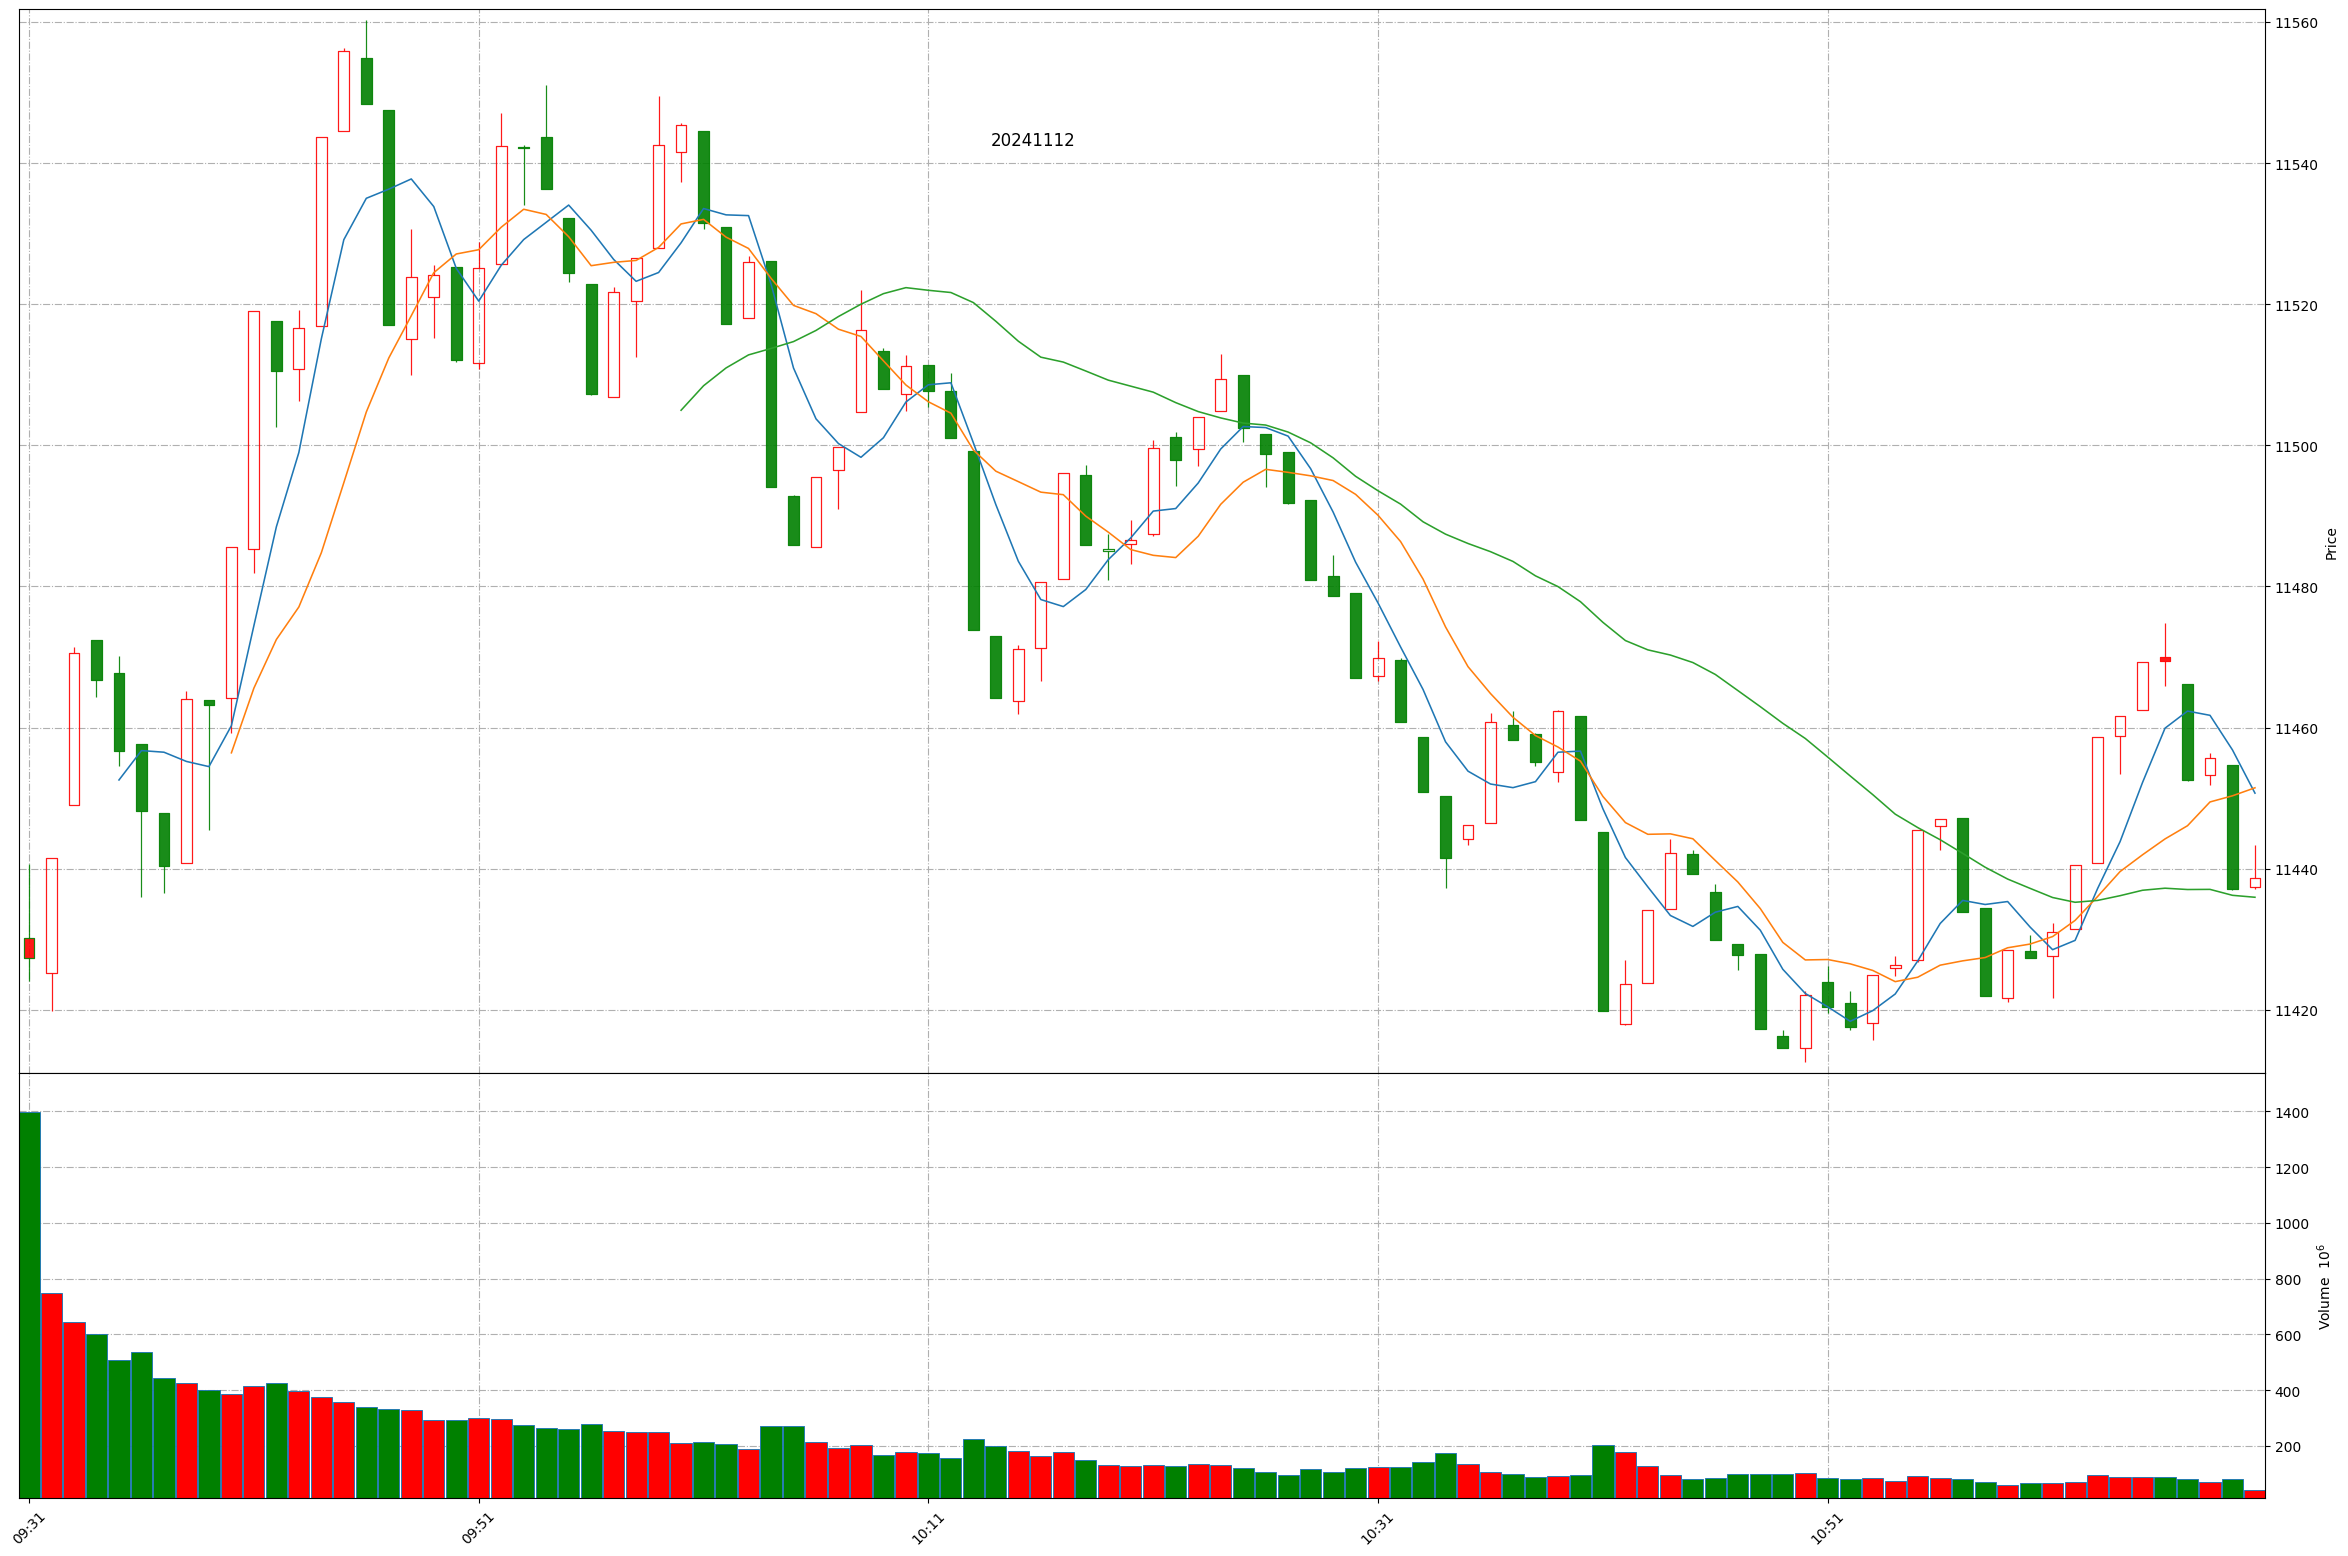
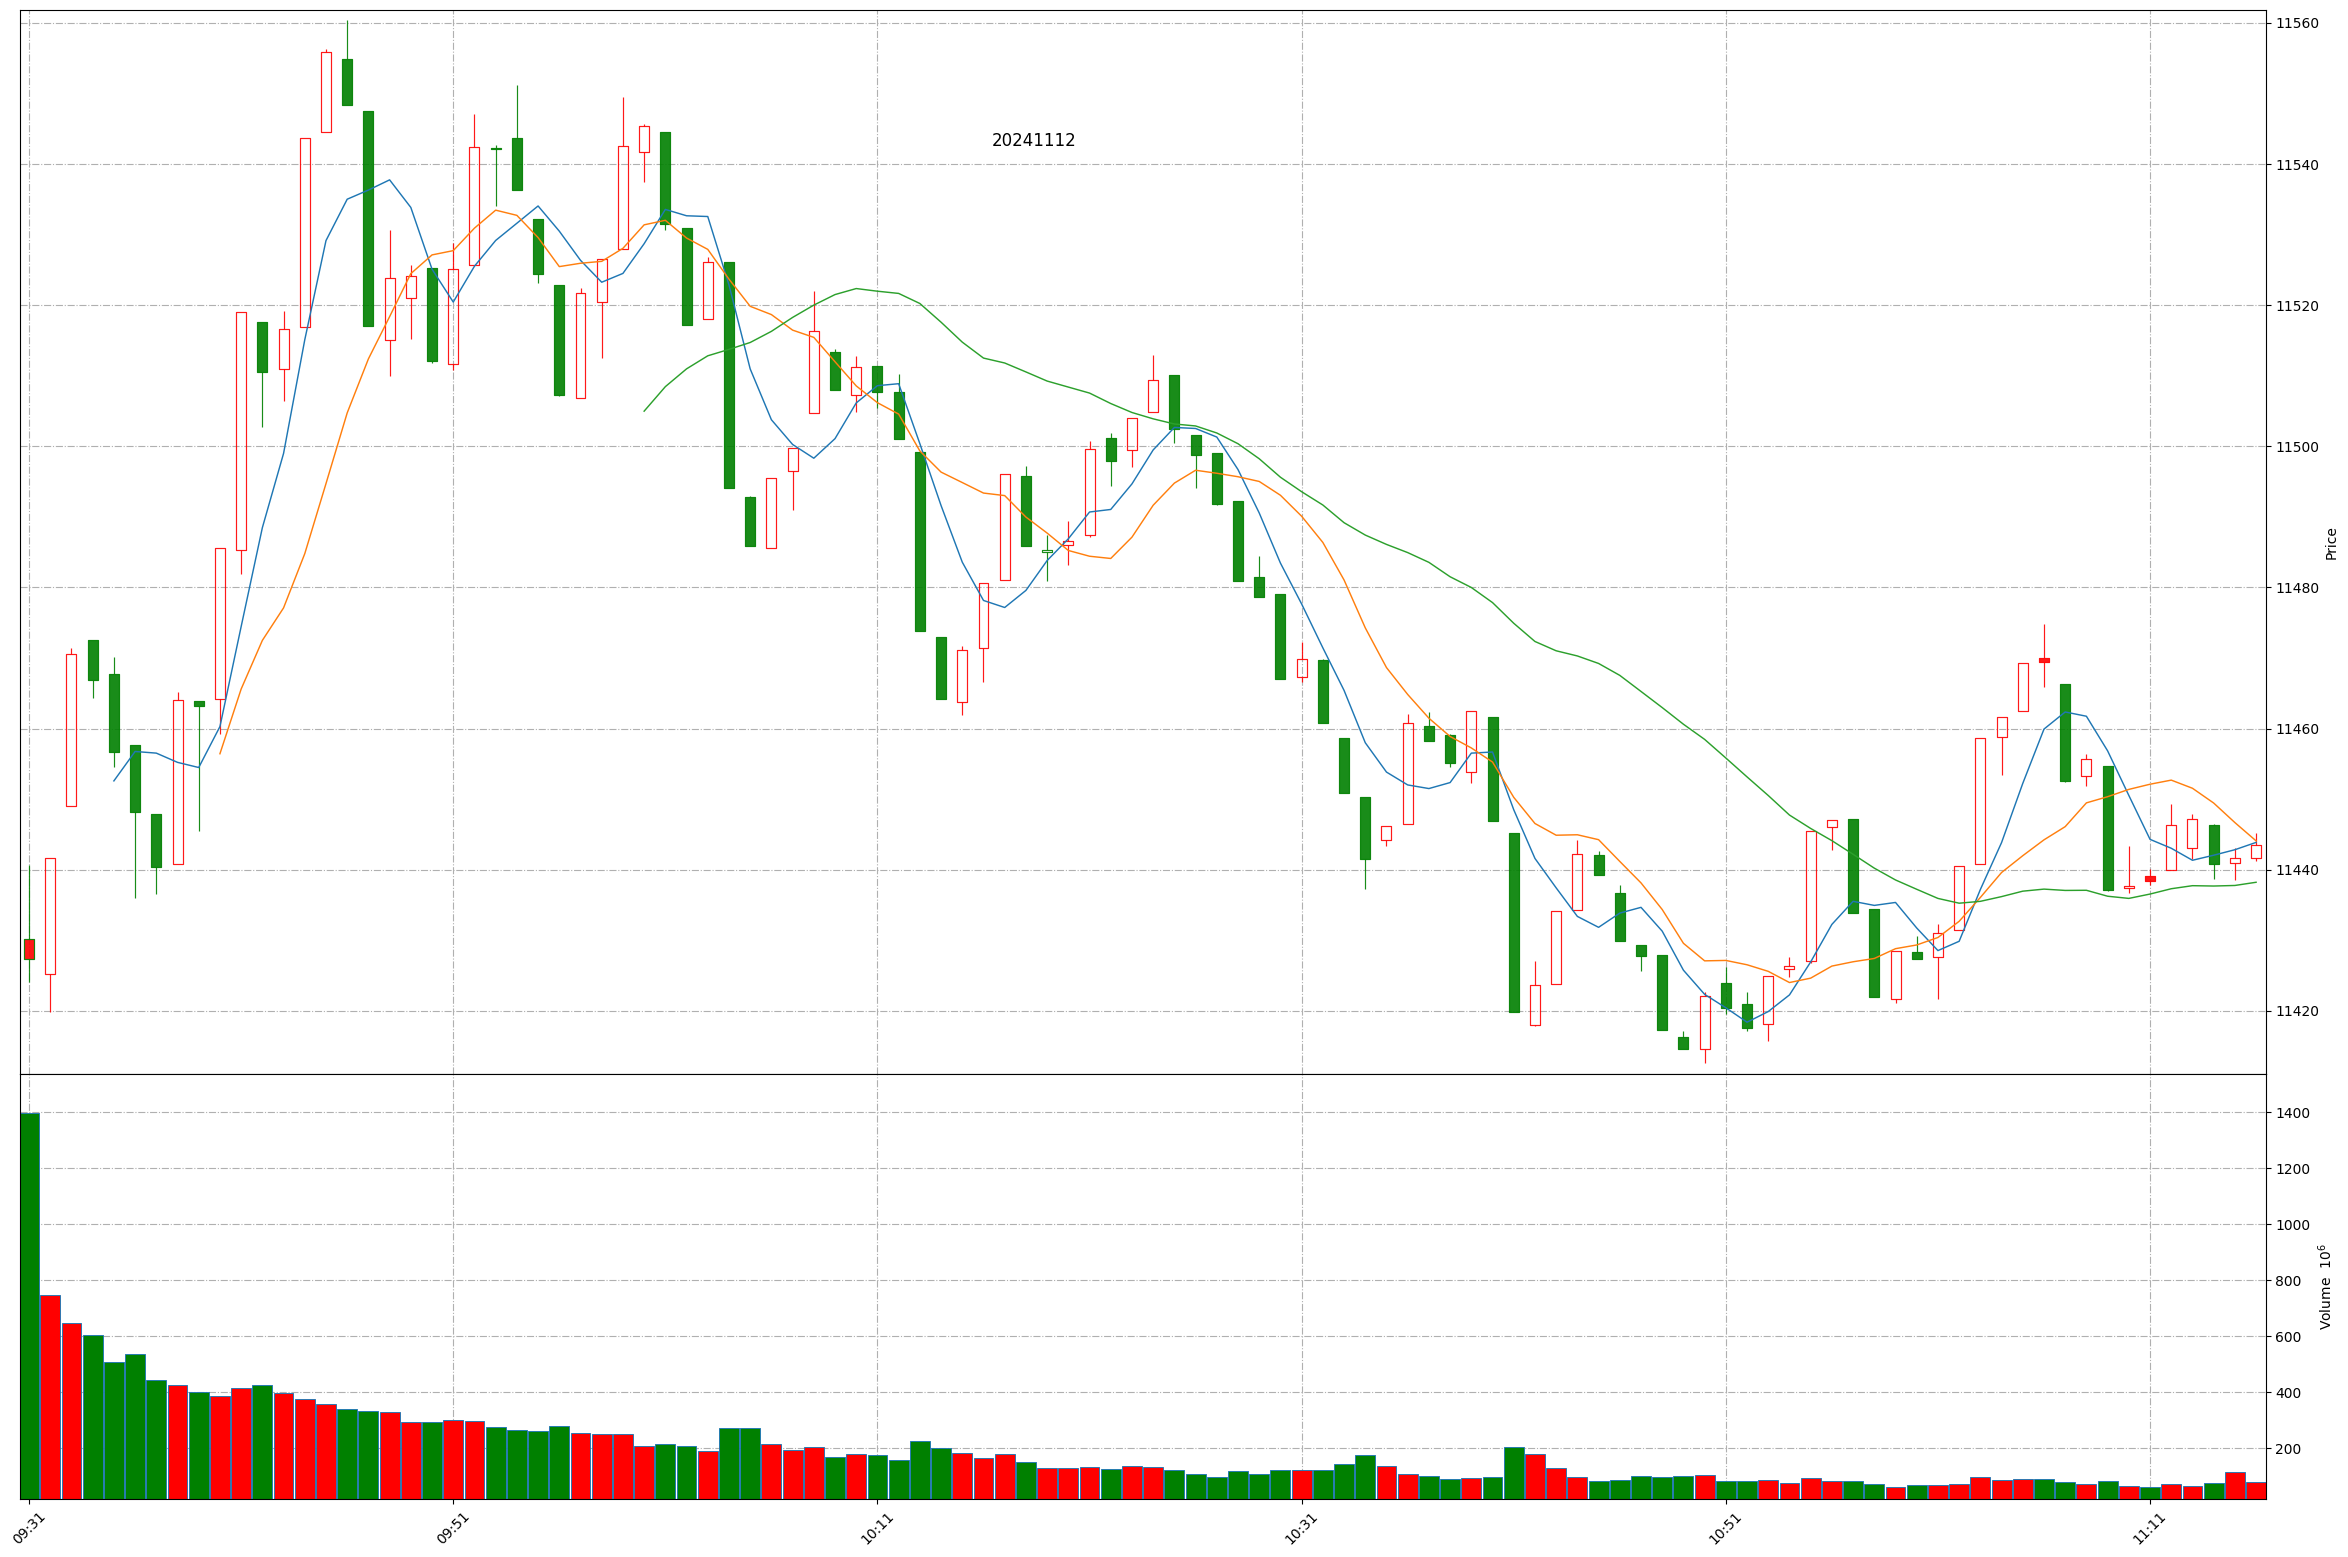
Github action update at 2024-11-12 11:16:06.

diff --git a/README.md b/README.md
@@ -1,11 +1,11 @@
 
 # Daily-A-share-market-quotes 每日 A 股指数（5min 更新）- 20241112
 
-### 上证指数 20241112 11:9
+### 上证指数 20241112 11:16
 ![](./fig/2024/11/20241112-sh000001.png)
 
-### 深证成指 20241112 11:9
+### 深证成指 20241112 11:16
 ![](./fig/2024/11/20241112-sz399001.png)
 
-### 北证50 20241112 11:9
+### 北证50 20241112 11:16
 ![](./fig/2024/11/20241112-bj899050.png)
